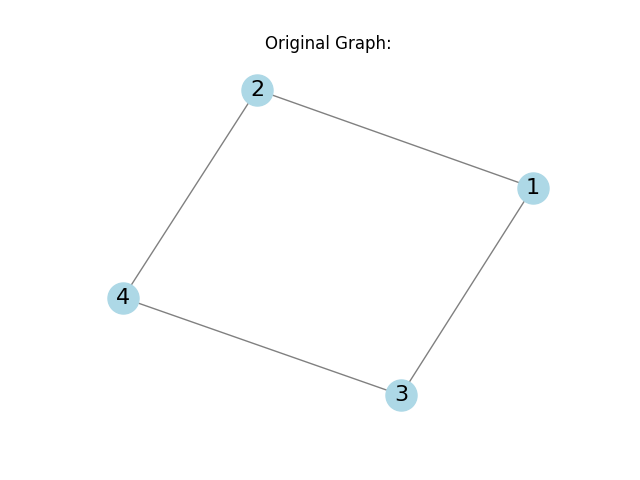
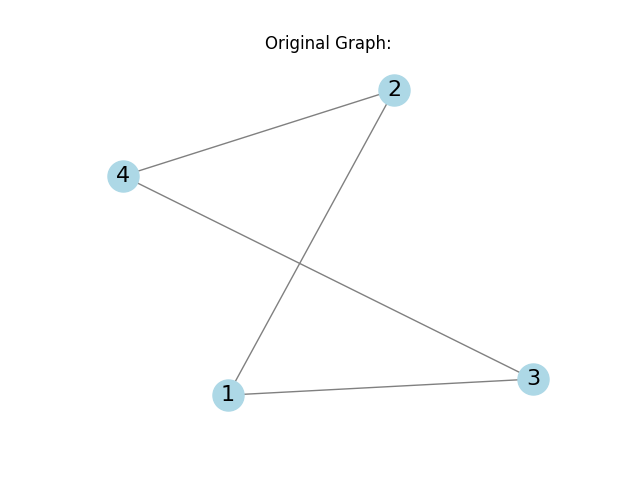
enhanced DFS algorithm to identify back edges and updated .gitignore

diff --git a/Main.py b/Main.py
@@ -44,11 +44,18 @@ def dfs(adj,start,V):
     prec=[0]*(V+1)
     prec[start]=start
     curr=start
+    nr=[0]*(V+1)
+    nr[start]=1
+    i=0
     while True:
         neigbours=adj[curr]
         for val in neigbours:
+            if prec[val]!=0 and prec[curr]!=val and nr[curr] > nr[val]:
+                 print(f"back edge: ({val},{curr})")
             if prec[val]==0:
                 prec[val]=curr
+                nr[val]=i+1
+                i=nr[val]
                 curr=val
                 break
         else:   
